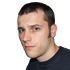
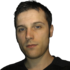
Updated mugshot, social media theme tweaks.

diff --git a/newadventuresinsoftware/wp-content/themes/newadventuresinsoftware/style.css b/newadventuresinsoftware/wp-content/themes/newadventuresinsoftware/style.css
@@ -340,3 +340,5 @@ hr { /* Simple style when CSS not in use */
 /* Hides from IE-mac \*/
 * html .clearfix {height: 1%;}
 /* End hide from IE-mac */	
+
+#twitter-widget-0, #twitter-widget-1, #twitter-widget-2, #twitter-widget-3 {clear: none !important; margin: 0 auto !important;}

diff --git a/newadventuresinsoftware/wp-content/themes/newadventuresinsoftware/comments.php b/newadventuresinsoftware/wp-content/themes/newadventuresinsoftware/comments.php
@@ -20,17 +20,17 @@
 
 <div style="text-align: center; margin: 1em 0 2em 0;">
   <div style="float: left; margin-right: 1em;">
-      <g:plusone size="tall" href="<?php the_permalink(); ?>"></g:plusone>
-      <script type="text/javascript">
-        window.___gcfg = {lang: 'en-GB'};
-      
-        (function() {
-          var po = document.createElement('script'); po.type = 'text/javascript'; po.async = true;
-          po.src = 'https://apis.google.com/js/plusone.js';
-          var s = document.getElementsByTagName('script')[0]; s.parentNode.insertBefore(po, s);
-        })();
-      </script>
-      <iframe src="http://www.facebook.com/plugins/like.php?app_id=236144349759379&amp;href=<?php urlencode(the_permalink()); ?>&amp;send=false&amp;layout=box_count&amp;width=50&amp;show_faces=false&amp;action=like&amp;colorscheme=light&amp;font=lucida+grande&amp;height=60" scrolling="no" frameborder="0" style="border:none; overflow:hidden; width:50px; height:60px;" allowTransparency="true"></iframe>
+    <g:plusone size="tall" href="<?php the_permalink(); ?>"></g:plusone>
+    <script type="text/javascript">
+      window.___gcfg = {lang: 'en-GB'};
+    
+      (function() {
+        var po = document.createElement('script'); po.type = 'text/javascript'; po.async = true;
+        po.src = 'https://apis.google.com/js/plusone.js';
+        var s = document.getElementsByTagName('script')[0]; s.parentNode.insertBefore(po, s);
+      })();
+    </script>
+    <iframe src="http://www.facebook.com/plugins/like.php?app_id=236144349759379&amp;href=<?php urlencode(the_permalink()); ?>&amp;send=false&amp;layout=box_count&amp;width=50&amp;show_faces=false&amp;action=like&amp;colorscheme=light&amp;font=lucida+grande&amp;height=60" scrolling="no" frameborder="0" style="border:none; overflow:hidden; width:50px; height:60px;" allowTransparency="true"></iframe>
   </div>
   <script type="text/javascript"><!--
   google_ad_client = "pub-9021348951632792";
